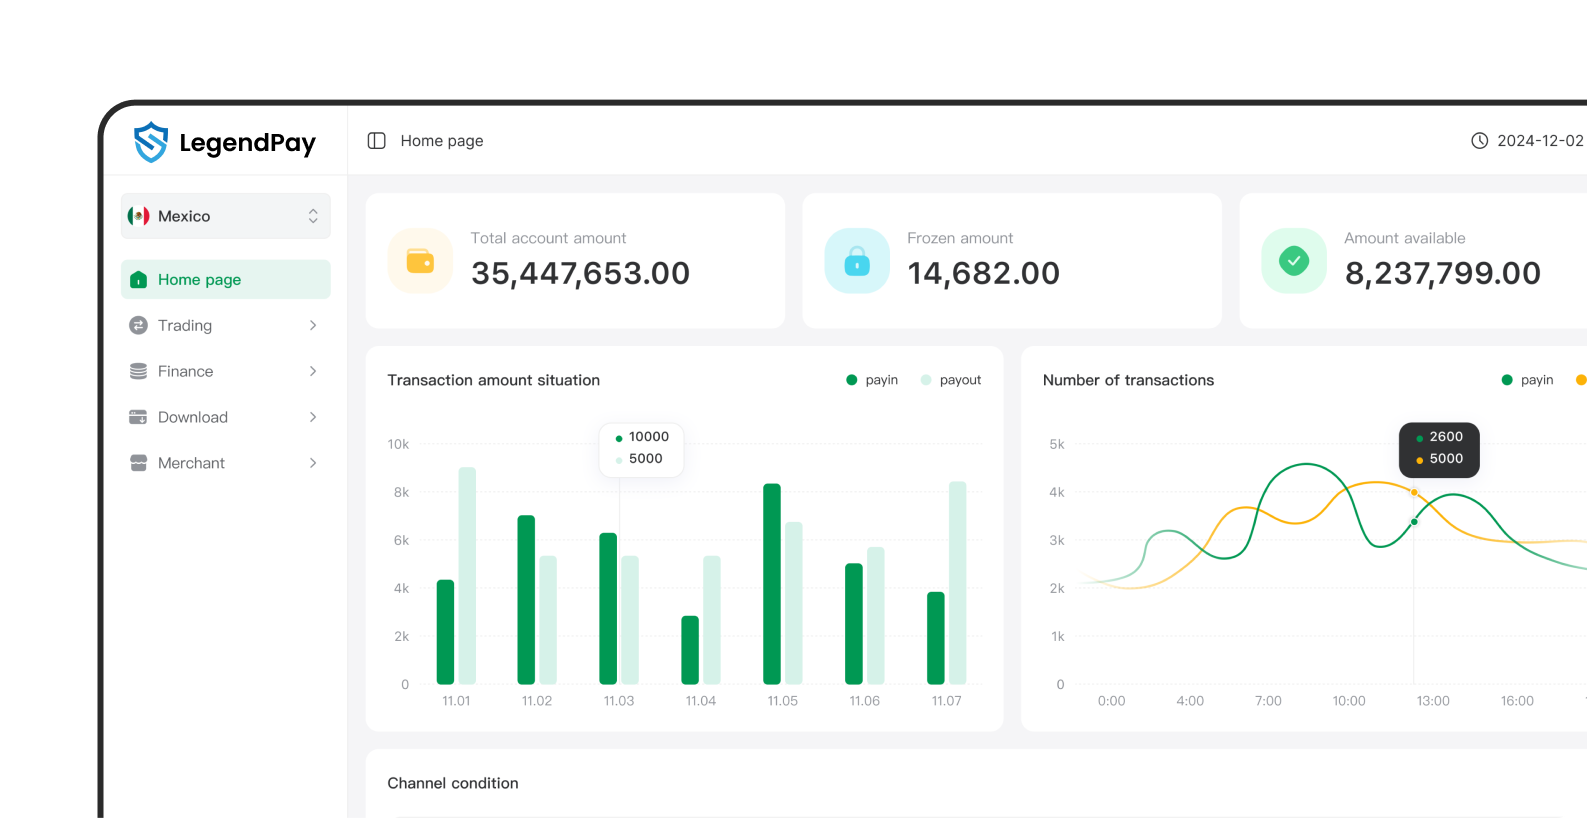
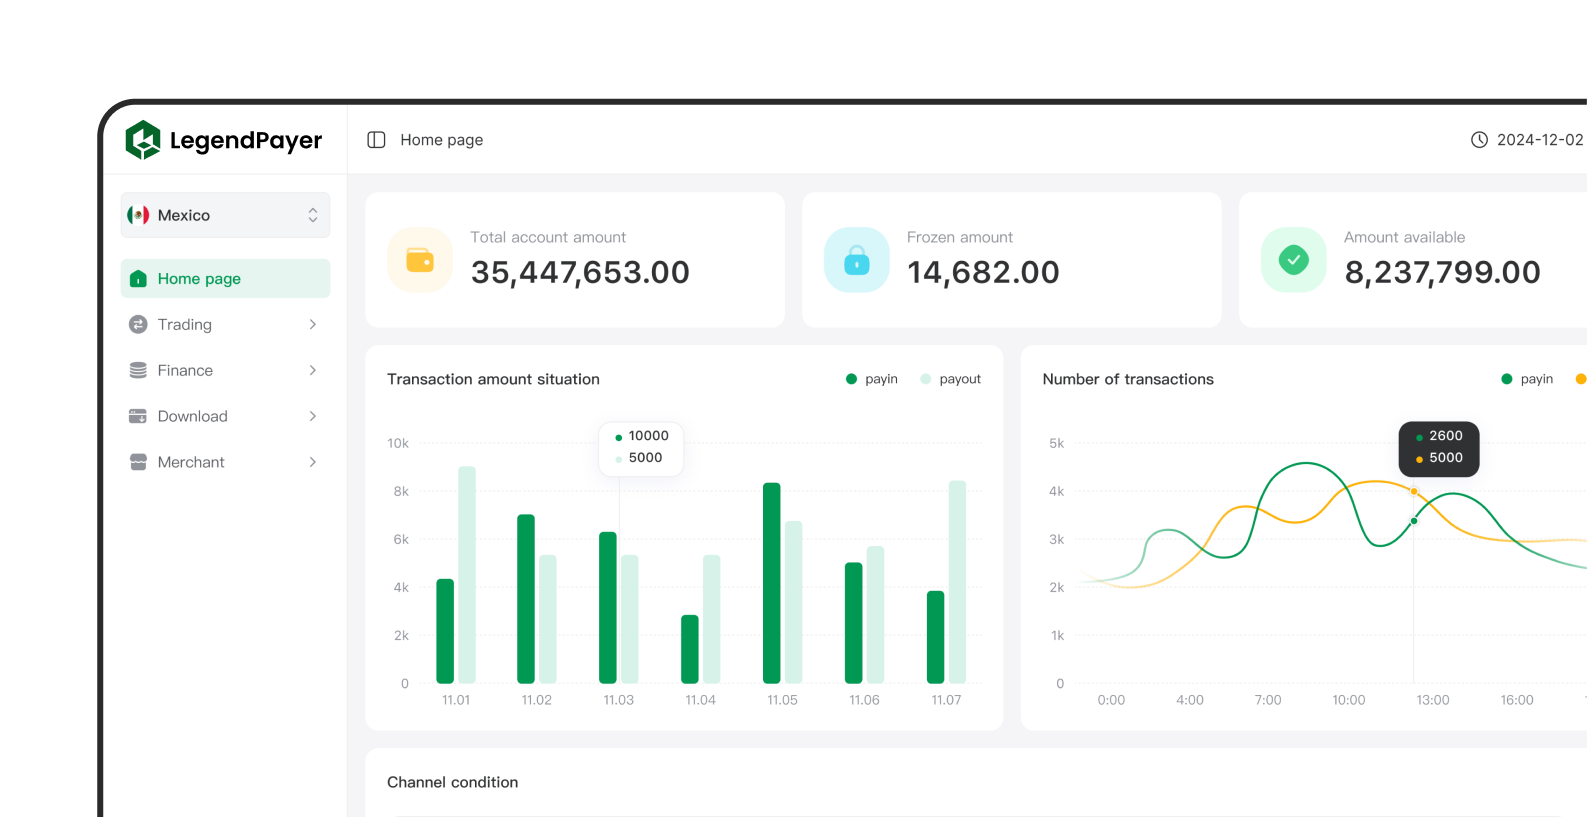
feat:1816

diff --git a/app/layout.tsx b/app/layout.tsx
@@ -4,15 +4,14 @@ import clsx from "clsx";
 import { Providers } from "./providers";
 import { Navbar } from "@/components/navbar";
 import { FooterBlock } from "@/components/FooterBlock";
-import Script from "next/script";
 
 export const metadata: Metadata = {
   title:
-    "PaisaGateway - PaisaGateway provides advanced payment solutions across Mexico, Colombia, Peru, Chile, Brazil, Pakistan, and Indonesia. We support a variety of payment methods including credit cards, debit cards, OXXO payments, PSE, Boleto Bancário, Easypaisa, Qris, and more. Enjoy a convenient and secure transaction experience with our 24/7 customer support and low transaction fees, making it easy to manage your payment needs!",
+    "LegendPayer - LegendPayer provides advanced payment solutions across Mexico, Colombia, Peru, Chile, Brazil, Pakistan, and Indonesia. We support a variety of payment methods including credit cards, debit cards, OXXO payments, PSE, Boleto Bancário, Easypaisa, Qris, and more. Enjoy a convenient and secure transaction experience with our 24/7 customer support and low transaction fees, making it easy to manage your payment needs!",
   keywords:
-    "PaisaGateway, global payment service, mobile payment, cross-border payment, payment solution,Mexico,Credit Cards (Visa, MasterCard, American Express),Debit Cards,OXXO Payments (convenience store payments),PayPal,MercadoPago,SPEI,Colombia,Credit Cards (Visa, MasterCard),Debit Cards,Bank Transfer (PSE),Nequi,PayU,Tpaga,Wompi,Peru,Credit Cards (Visa, MasterCard),Debit Cards,PagoEfectivo (cash payment service),Yape (e-wallet),Plin (instant transfer service),Payvalida,Kushki,Tupay,Chile,Credit Cards (Visa, MasterCard, American Express),Debit Cards (Redcompra),WebPay (online payment platform),Khipu (bank transfer),Brazil,Credit Cards (Visa, MasterCard, Elo),Debit Cards,Boleto Bancário (payment slip),Pix (instant payment system),Pakistan,Credit Cards (Visa, MasterCard),Debit Cards,Easypaisa (mobile wallet),JazzCash (mobile payment),Bank Transfers,Indonesia,Credit Cards (Visa, MasterCard),Debit Cards,Qris (QR code payments),OVO (e-wallet),GoPay (mobile payment),24/7 customer support , low transaction fees",
+    "LegendPayer, global payment service, mobile payment, cross-border payment, payment solution,Mexico,Credit Cards (Visa, MasterCard, American Express),Debit Cards,OXXO Payments (convenience store payments),PayPal,MercadoPago,SPEI,Colombia,Credit Cards (Visa, MasterCard),Debit Cards,Bank Transfer (PSE),Nequi,PayU,Tpaga,Wompi,Peru,Credit Cards (Visa, MasterCard),Debit Cards,PagoEfectivo (cash payment service),Yape (e-wallet),Plin (instant transfer service),Payvalida,Kushki,Tupay,Chile,Credit Cards (Visa, MasterCard, American Express),Debit Cards (Redcompra),WebPay (online payment platform),Khipu (bank transfer),Brazil,Credit Cards (Visa, MasterCard, Elo),Debit Cards,Boleto Bancário (payment slip),Pix (instant payment system),Pakistan,Credit Cards (Visa, MasterCard),Debit Cards,Easypaisa (mobile wallet),JazzCash (mobile payment),Bank Transfers,Indonesia,Credit Cards (Visa, MasterCard),Debit Cards,Qris (QR code payments),OVO (e-wallet),GoPay (mobile payment),24/7 customer support , low transaction fees",
   description:
-    "PaisaGateway provides advanced payment solutions across Mexico, Colombia, Peru, Chile, Brazil, Pakistan, and Indonesia. We support a variety of payment methods including credit cards, debit cards, OXXO payments, PSE, Boleto Bancário, Easypaisa, Qris, and more. Enjoy a convenient and secure transaction experience with our 24/7 customer support and low transaction fees, making it easy to manage your payment needs!",
+    "LegendPayer provides advanced payment solutions across Mexico, Colombia, Peru, Chile, Brazil, Pakistan, and Indonesia. We support a variety of payment methods including credit cards, debit cards, OXXO payments, PSE, Boleto Bancário, Easypaisa, Qris, and more. Enjoy a convenient and secure transaction experience with our 24/7 customer support and low transaction fees, making it easy to manage your payment needs!",
   icons: {
     icon: "/favicon.ico",
   },
@@ -47,19 +46,6 @@ export default function RootLayout({
           </div>
         </Providers>
       </body>
-      <Script
-        src={`https://www.googletagmanager.com/gtag/js?id=G-D3P16L281D`}
-        strategy="afterInteractive"
-      />
-      <Script id="google-analytics" strategy="afterInteractive">
-        {`
-          window.dataLayer = window.dataLayer || [];
-          function gtag(){dataLayer.push(arguments);}
-          gtag('js', new Date());
-        
-          gtag('config', 'G-D3P16L281D');
-        `}
-      </Script>
     </html>
   );
 }

diff --git a/app/About/page.tsx b/app/About/page.tsx
@@ -15,7 +15,7 @@ import { FadeIn } from "@/components/Animateitem";
 
 const title = "Your Trusted Global Payment Solutions Provider";
 const sub =
-  "PaisaGateway has been a prominent player in the payment gateway industry . As a leading global payment processing service and solutions provider, we specialize in facilitating secure and efficient transactions for a diverse range of clients. From small family-owned businesses to large corporations and established conglomerates, we offer tailored payment solutions to meet their specific needs.";
+  "LegendPayer has been a prominent player in the payment gateway industry . As a leading global payment processing service and solutions provider, we specialize in facilitating secure and efficient transactions for a diverse range of clients. From small family-owned businesses to large corporations and established conglomerates, we offer tailored payment solutions to meet their specific needs.";
 const VolumeData = [
   { key: "USD(0-500K)", label: "USD 0-500K" },
   { key: "USD(501K-1M)", label: "USD 501K-1M" },
@@ -461,7 +461,7 @@ export default function AboutPage() {
                   errorMessage: "text-[#FF4C4C] text-[12px] md:text-[14px]",
                 }}
                 className="w-full mb-[18px] md:mb-[52px]"
-                label="How can PaisaGateway help your business? Feel free to ask anything."
+                label="How can LegendPayer help your business? Feel free to ask anything."
                 labelPlacement="outside"
                 name="help"
                 errorMessage="Please Enter"
@@ -483,13 +483,13 @@ export default function AboutPage() {
                 >
                   <div className="text-[12px] md:text-[18px]  leading-[16px] text-[#000]">
                     By checking this box, you agree to receive marketing emails
-                    from PaisaGateway. You may unsubscribe at any time.{" "}
+                    from LegendPayer. You may unsubscribe at any time.{" "}
                   </div>
                 </Checkbox>
               </CheckboxGroup>
               <div className="text-[12px] leading-[14px] md:text-[18px] md:leading-[21px]  mb-[58px] md:mb-[94px] text-[#000]">
                 By submitting your information you confirm that you have read
-                PaisaGateway
+                LegendPayer
                 <Link
                   href="/support/Privacy_Policy.pdf"
                   target="_blank"
@@ -497,7 +497,7 @@ export default function AboutPage() {
                 >
                   Privacy Policy
                 </Link>
-                and agree to the use of your data in all PaisaGateway
+                and agree to the use of your data in all LegendPayer
                 communications.
               </div>
               <div className="w-full flex items-center justify-center">

diff --git a/components/FooterBlock.tsx b/components/FooterBlock.tsx
@@ -32,9 +32,17 @@ export const FooterBlock = () => {
                 <div className="mb-2">
                   Singapore: 1 Raffles Place, Singapore 048616
                 </div>
-                <div>
+                <div className="mb-2">
                   Pakistan: Office No 6, London Plaza, G 9 Markaz, Islamabad,
                   Pakistan
+                </div>
+                <div className="mb-2">
+                  India ofhce address: Level 1-2.Crescent Building Lado
+                  Sarai,Mehrauli, New Delhi, Delhi 110030.India
+                </div>
+                <div>
+                  Bangladesh ofhce address: 75Mohakhali, Dhaka-1212, Bangladesh
+                  Nina
                 </div>
               </div>
             </div>
@@ -83,7 +91,7 @@ export const FooterBlock = () => {
         </div>
       </PageWrap>
       <div className="pt-[30px] md:pt-[47px] text-[12px] leading-[18px md:text-[14px] md:leading-[21px] text-white text-center">
-        Copyright © 2024 PaisaGateway - All rights reserved.
+        Copyright © 2024 LegendPayer - All rights reserved.
       </div>
     </div>
   );

diff --git a/app/page.tsx b/app/page.tsx
@@ -162,7 +162,7 @@ export default function Home() {
                       <SecondaryTitle
                         align="text-left"
                         className="md:max-w-[500px]"
-                        title="PaisaGateway Payout"
+                        title="LegendPayer Payout"
                       />
                       <div className="flex justify-end">
                         <Image
@@ -192,7 +192,7 @@ export default function Home() {
             <FadeIn>
               <NextLink
                 className="block"
-                href="https://merchant.PaisaGateway.com/#/login"
+                href="https://merchant.LegendPayer.com/#/login"
                 target="_blank"
               >
                 <div className="lg:flex flex-row bg-[#06421D] rounded-2xl lg:h-[411px]">

diff --git a/app/api/sendMessage/route.ts b/app/api/sendMessage/route.ts
@@ -88,7 +88,7 @@ export async function POST(request: Request) {
       [
         {
           tag: "text",
-          text: `How can PaisaGateway help your business? Feel free to ask anything: 【${help}】`,
+          text: `How can LegendPayer help your business? Feel free to ask anything: 【${help}】`,
         },
       ],
       [
@@ -106,7 +106,7 @@ export async function POST(request: Request) {
         content: {
           post: {
             zh_cn: {
-              title: "karo官网留言:",
+              title: "LegendPayer官网留言:",
               content: params,
             },
           },

diff --git a/app/Payins/page.tsx b/app/Payins/page.tsx
@@ -65,8 +65,8 @@ export default function PayinsPage() {
             title="Country-specific solutions"
             sub={
               <>
-                By integrating PaisaGateway, you gain access to all major
-                markets in Latin America, Asia, the Middle East.{" "}
+                By integrating LegendPayer, you gain access to all major markets
+                in Latin America, Asia, the Middle East.{" "}
                 <span className="hidden lg:inline">
                   {" "}
                   <br />{" "}

diff --git a/components/Text.tsx b/components/Text.tsx
@@ -408,8 +408,8 @@ export const Applytext = ({ className }: Props) => {
     >
       <span className="font-medium text-[#06421D]">📩 How to Apply: </span>
       Please send your resume to [
-      <a className="text-[#06421D]" href="mailto:service@PaisaGateway.com">
-        service@PaisaGateway.com
+      <a className="text-[#06421D]" href="mailto:service@LegendPayer.com">
+        service@LegendPayer.com
       </a>
       ] with the subject line: "Application for Senior Global Business
       Development – [Your Name]".

diff --git a/config/site.ts b/config/site.ts
@@ -139,6 +139,18 @@ export const CardCountryConfig = [
     code: "CH",
     icon: "ch",
   },
+  {
+    id: 6,
+    title: "India",
+    code: "IN",
+    icon: "India",
+  },
+  {
+    id: 7,
+    title: "Bangladesh",
+    code: "Ba",
+    icon: "ba",
+  },
 ];
 
 export const MobileNavbarList = [
@@ -237,7 +249,7 @@ export const AppsList = [
   },
   {
     id: 5,
-    href: "mailto:service@PaisaGateway.com",
+    href: "mailto:super@legendpayer.com",
     target: "_blank",
   },
 ];

diff --git a/app/In/page.tsx b/app/In/page.tsx
@@ -31,7 +31,7 @@ export default function InPage() {
               <div className="md:max-w-[714px] mb-[15px] md:mb-[40px] ">
                 <PrimaryTitle
                   align="text-left"
-                  title="Shape the future of commerce with PaisaGateway."
+                  title="Shape the future of commerce with LegendPayer."
                   className=" lg:!text-6xl lg:!leading-[4.25rem] md:!text-[22px]  md:!leading-[30px]"
                 />
               </div>

diff --git a/components/CardCountry.tsx b/components/CardCountry.tsx
@@ -42,7 +42,7 @@ export const CardCountry = () => {
         onMouseLeave={handleMouseLeave}
         onMouseUp={handleMouseUp}
         onMouseMove={handleMouseMove}
-        className="hide-scrollbar flex grid-cols-5 gap-x-[26px] overflow-x-auto   mb-[104px]  md:mb-[242px]"
+        className="hide-scrollbar flex grid-cols-5 gap-x-[18px] overflow-x-auto   mb-[104px]  md:mb-[242px]"
       >
         {CardCountryConfig.map((i) => (
           <Card

diff --git a/components/navbar.tsx b/components/navbar.tsx
@@ -55,9 +55,9 @@ export const Navbar = () => {
               <Image
                 className="max-w-[339px]"
                 alt="HeroUI hero Image with delay"
-                height={63}
+                height={62}
                 src="/images/logo.png"
-                width={339}
+                width={308}
               />
             </NextLink>
 

diff --git a/components/CardFour.tsx b/components/CardFour.tsx
@@ -24,7 +24,7 @@ const cardList = [
   {
     id: 3,
     title: "Local and international payments",
-    sub: "PaisaGateway payment solution is a simple, secure and fast method suitable for all business models.",
+    sub: "LegendPayer payment solution is a simple, secure and fast method suitable for all business models.",
     icon: PayinThree,
   },
   {
